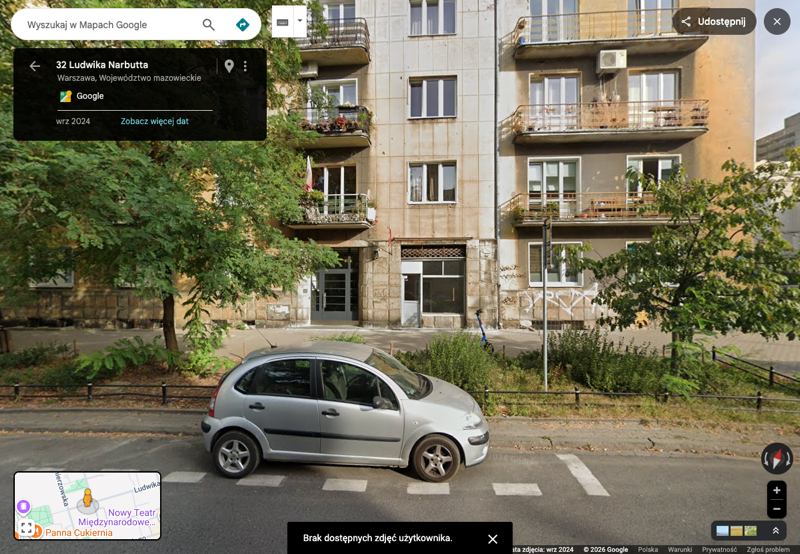
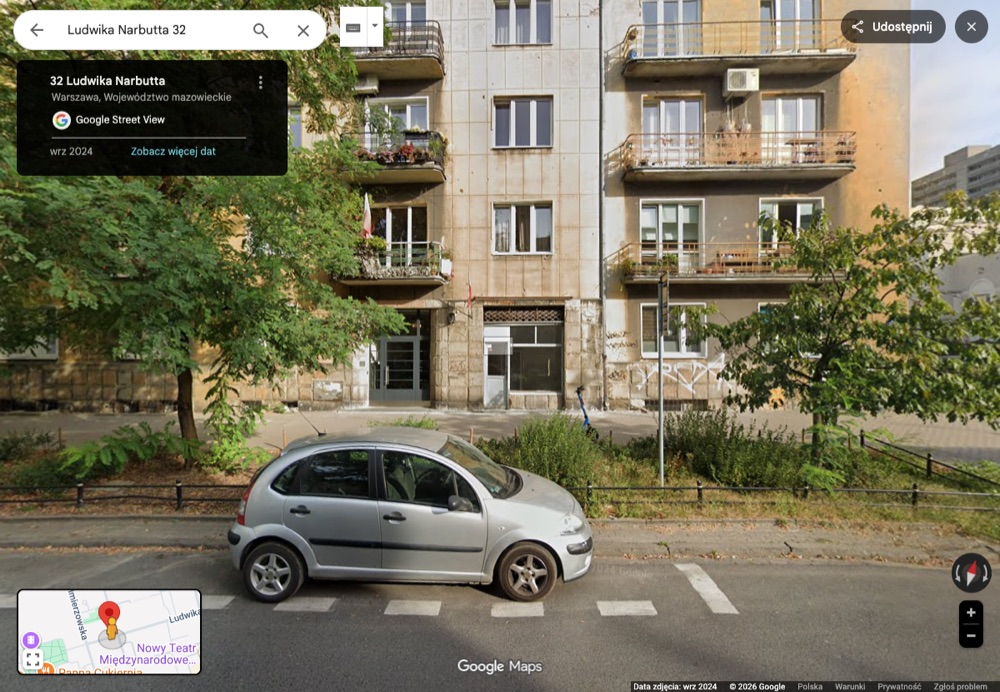
Update pickup page: real Street View photos, remove AI group pics, add plate
- Replace satellite/old images with actual Google Street View screenshots
- Show Dodo Pizza storefront (orange sign) for Rondo ONZ pickup
- Show Narbutta residential street with parking
- Show Słomińskiego 19 building entrance
- Remove AI-generated group photos
- Add car plate WX8689C
- Switch to English-only text

diff --git a/pickup.html b/pickup.html
@@ -15,6 +15,7 @@ body { font-family: -apple-system, BlinkMacSystemFont, 'Segoe UI', Roboto, sans-
 .car-section { background: #1a2a3a; border-radius: 12px; padding: 24px; margin: 24px 0; text-align: center; }
 .car-section img { max-width: 100%; border-radius: 8px; margin: 12px 0; }
 .car-section h2 { color: #c0392b; margin-bottom: 8px; }
+.car-section .plate { display: inline-block; background: #fff; color: #000; font-weight: 900; font-size: 1.3em; padding: 6px 18px; border-radius: 6px; border: 3px solid #1a3a6a; letter-spacing: 2px; margin-top: 8px; font-family: monospace; }
 .pickup-card { background: #1a2a3a; border-radius: 12px; margin: 24px 0; overflow: hidden; border-left: 4px solid #c0392b; }
 .pickup-header { padding: 20px 24px; display: flex; align-items: center; gap: 16px; }
 .pickup-number { background: #c0392b; color: white; width: 48px; height: 48px; border-radius: 50%; display: flex; align-items: center; justify-content: center; font-size: 1.4em; font-weight: bold; flex-shrink: 0; }
@@ -38,9 +39,6 @@ body { font-family: -apple-system, BlinkMacSystemFont, 'Segoe UI', Roboto, sans-
 .route-step .step-time { color: #c0392b; font-weight: 700; min-width: 50px; }
 .route-step .step-icon { font-size: 1.2em; }
 .route-step .step-text { color: #ccc; }
-.group-section { text-align: center; margin: 32px 0; }
-.group-section img { max-width: 100%; border-radius: 12px; margin: 12px 0; }
-.group-section h2 { color: #fff; margin-bottom: 8px; }
 .footer { text-align: center; padding: 24px; color: #556; font-size: 0.85em; }
 @media (max-width: 600px) {
   .images-grid { grid-template-columns: 1fr; }
@@ -54,19 +52,20 @@ body { font-family: -apple-system, BlinkMacSystemFont, 'Segoe UI', Roboto, sans-
 <div class="hero">
   <h1>XXIII Poronin - Zima 2026</h1>
   <div class="subtitle">Pickup Plan</div>
-  <div class="date">Piątek, 20 lutego 2026 / Friday, Feb 20, 2026</div>
+  <div class="date">Friday, Feb 20, 2026</div>
 </div>
 
 <div class="container">
 
 <div class="car-section">
-  <h2>Nasz wóz / Our ride</h2>
-  <p>Red MINI Countryman S - dwa czarne paski na masce / two black stripes on the hood</p>
+  <h2>Our ride</h2>
+  <p>Red MINI Countryman S - two black stripes on the hood</p>
   <img src="img/mini.jpg" alt="Red Mini Countryman S">
+  <div class="plate">WX8689C</div>
 </div>
 
 <div class="route-summary">
-  <h2>Trasa / Route</h2>
+  <h2>Route</h2>
   <div class="route-step">
     <span class="step-time">12:25</span>
     <span class="step-icon">🏠</span>
@@ -75,27 +74,27 @@ body { font-family: -apple-system, BlinkMacSystemFont, 'Segoe UI', Roboto, sans-
   <div class="route-step">
     <span class="step-time">~15 min</span>
     <span class="step-icon">🚗</span>
-    <span class="step-text">Przez Puławską na północ / North via Puławska</span>
+    <span class="step-text">North via Puławska</span>
   </div>
   <div class="route-step">
     <span class="step-time">12:40</span>
     <span class="step-icon">🚇</span>
-    <span class="step-text"><strong>Magda</strong> - Metro Rondo ONZ, wyjście przy Dodo Pizza</span>
+    <span class="step-text"><strong>Magda</strong> - Metro Rondo ONZ, exit near Dodo Pizza</span>
   </div>
   <div class="route-step">
     <span class="step-time">~15 min</span>
     <span class="step-icon">🚗</span>
-    <span class="step-text">Al. Jana Pawła II na północ / North via Jana Pawła II</span>
+    <span class="step-text">North via al. Jana Pawła II</span>
   </div>
   <div class="route-step">
     <span class="step-time">12:55</span>
     <span class="step-icon">🏥</span>
-    <span class="step-text"><strong>Marta</strong> - Słomińskiego 19, klinika / clinic</span>
+    <span class="step-text"><strong>Marta</strong> - Słomińskiego 19, clinic</span>
   </div>
   <div class="route-step">
     <span class="step-time">~13:00</span>
     <span class="step-icon">🛣</span>
-    <span class="step-text">Na S7/S8 w kierunku Krakowa / Onto S7/S8 towards Kraków</span>
+    <span class="step-text">Onto S7/S8 towards Kraków</span>
   </div>
 </div>
 
@@ -110,20 +109,19 @@ body { font-family: -apple-system, BlinkMacSystemFont, 'Segoe UI', Roboto, sans-
     </div>
   </div>
   <div class="pickup-body">
-    <p>Mati wychodzi z domu. Narbutta to spokojna ulica jednokierunkowa z miejscami parkingowymi po obu stronach. Podjadę pod sam budynek - jest dużo miejsca, żeby się zatrzymać przy krawężniku.</p>
     <p>Mati exits from home. Narbutta is a calm one-way residential street with parking on both sides. I'll pull up right in front of the building - plenty of space to stop at the curb.</p>
-    <div class="tip"><strong>Tip:</strong> Narbutta jest jednokierunkowa - jadę od strony Puławskiej. / Narbutta is one-way - I'll approach from Puławska side.</div>
+    <div class="tip"><strong>Tip:</strong> Narbutta is one-way - I'll approach from the Puławska side (driving east).</div>
     <div class="images-grid">
       <div>
-        <img src="img/narbutta-sat.jpg" alt="Narbutta 32 - satellite view">
-        <div class="caption">Widok satelitarny / Satellite view</div>
+        <img src="img/narbutta-sv.jpg" alt="Narbutta 32 - building with parking">
+        <div class="caption">Building at Narbutta - parked car shows where I'll stop</div>
       </div>
       <div>
-        <img src="img/narbutta-sv.jpg" alt="Narbutta 32 - street view">
-        <div class="caption">Street View - spokojna ulica z parkowaniem / calm street with parking</div>
+        <img src="img/narbutta-street.jpg" alt="Narbutta street perspective">
+        <div class="caption">Street view approaching from Puławska side</div>
       </div>
     </div>
-    <a class="map-link" href="https://maps.google.com/?q=Ludwika+Narbutta+32,+Warszawa&ll=52.2063,21.0149" target="_blank">📍 Otwórz w Google Maps</a>
+    <a class="map-link" href="https://maps.google.com/?q=Ludwika+Narbutta+32,+Warszawa&ll=52.2063,21.0149" target="_blank">📍 Open in Google Maps</a>
   </div>
 </div>
 
@@ -134,24 +132,23 @@ body { font-family: -apple-system, BlinkMacSystemFont, 'Segoe UI', Roboto, sans-
     <div class="pickup-info">
       <h2>Magda - Metro Rondo ONZ</h2>
       <div class="time">12:40</div>
-      <div class="address">al. Jana Pawła II 18 (przy Dodo Pizza), 00-824 Warszawa</div>
+      <div class="address">al. Jana Pawła II 18 (near Dodo Pizza), 00-824 Warszawa</div>
     </div>
   </div>
   <div class="pickup-body">
-    <p>Magda wychodzi z metra Rondo ONZ. Wyjście blisko Dodo Pizza (al. Jana Pawła II 18). Zatrzymam się na al. Jana Pawła II po zachodniej stronie, tuż przed skrzyżowaniem z Twardą - jest tam krótki odcinek, gdzie można się zatrzymać.</p>
-    <p>Magda exits metro Rondo ONZ. Exit near Dodo Pizza (al. Jana Pawła II 18). I'll stop on al. Jana Pawła II on the west side, just before the Twarda intersection - there's a short stretch where you can pull over.</p>
-    <div class="tip"><strong>Tip:</strong> Centrum miasta - lepiej nie stać za długo! Magda, bądź gotowa. 😄 / City center - best not to linger! Magda, be ready. 😄</div>
+    <p>Magda exits metro Rondo ONZ. The exit is near <strong>Dodo Pizza</strong> (orange sign, al. Jana Pawła II 18) - look for Carrefour and Shanga next to it. I'll stop on al. Jana Pawła II on the right side, just north of the Twarda intersection (~20m).</p>
+    <div class="tip"><strong>Tip:</strong> City center - can't linger! Magda, be ready at the exit when you see me pull up.</div>
     <div class="images-grid">
       <div>
-        <img src="img/rondo-onz-sat.jpg" alt="Rondo ONZ - satellite view">
-        <div class="caption">Widok satelitarny - Dodo Pizza po lewej / Satellite - Dodo Pizza on the left</div>
+        <img src="img/rondo-onz-dodo.jpg" alt="Dodo Pizza storefront">
+        <div class="caption">Dodo Pizza (orange sign) - Magda exits here. Carrefour + Shanga next door.</div>
       </div>
       <div>
-        <img src="img/rondo-onz-sv.jpg" alt="Rondo ONZ - street view">
-        <div class="caption">Street View - al. Jana Pawła II</div>
+        <img src="img/rondo-onz-avenue.jpg" alt="al. Jana Pawła II looking south">
+        <div class="caption">al. Jana Pawła II looking south toward Rondo ONZ</div>
       </div>
     </div>
-    <a class="map-link" href="https://maps.google.com/?q=Dodo+Pizza+Jana+Pawla+II+Warszawa&ll=52.2338,20.9986" target="_blank">📍 Otwórz w Google Maps</a>
+    <a class="map-link" href="https://maps.google.com/?q=Dodo+Pizza+Jana+Pawla+II+Warszawa&ll=52.2338,20.9986" target="_blank">📍 Open in Google Maps</a>
   </div>
 </div>
 
@@ -162,43 +159,31 @@ body { font-family: -apple-system, BlinkMacSystemFont, 'Segoe UI', Roboto, sans-
     <div class="pickup-info">
       <h2>Marta - Słomińskiego 19</h2>
       <div class="time">12:55</div>
-      <div class="address">ul. Zygmunta Słomińskiego 19, 00-195 Warszawa (klinika psychologiczna / psychology clinic)</div>
+      <div class="address">ul. Zygmunta Słomińskiego 19, 00-195 Warszawa (clinic building)</div>
     </div>
   </div>
   <div class="pickup-body">
-    <p>Marta wychodzi z kliniki. Budynek przy Słomińskiego 19 to duży biurowiec z wieloma gabinetami lekarskimi. Jest parking przed budynkiem, a od strony ul. Dzikiej jest spokojniej - można tam podjechać i stanąć.</p>
-    <p>Marta exits from the clinic. Słomińskiego 19 is a large office building with many medical practices. There's parking in front, and ul. Dzika side is calmer - you can pull up and stop there.</p>
-    <div class="tip"><strong>Tip:</strong> Blisko Ronda Radosława i wjazdu na trasę. Stąd szybko na S7! / Near Rondo Radosława and highway entrance. Quick access to S7 from here!</div>
+    <p>Marta exits from the clinic. Słomińskiego 19 is a large office building with many medical practices (Babka Medica, Centrum Terapii Dialog, ASTRAMED). I'll pull up on the side street (ul. Dzika) where it's calmer.</p>
+    <div class="tip"><strong>Tip:</strong> Near Rondo Radosława and highway entrance. Quick access to S7 from here!</div>
     <div class="images-grid">
       <div>
-        <img src="img/slominskiego-sat.jpg" alt="Słomińskiego 19 - satellite view">
-        <div class="caption">Widok satelitarny / Satellite view</div>
+        <img src="img/slominskiego-building.jpg" alt="Słomińskiego 19 building">
+        <div class="caption">Building entrance at Słomińskiego 19</div>
       </div>
       <div>
-        <img src="img/slominskiego-sv.jpg" alt="Słomińskiego 19 - street view">
-        <div class="caption">Street View - ul. Dzika, parking obok budynku / parking beside building</div>
+        <img src="img/slominskiego-road.jpg" alt="Road near Słomińskiego 19">
+        <div class="caption">Road view - Domino's Pizza visible as landmark</div>
       </div>
     </div>
-    <a class="map-link" href="https://maps.google.com/?q=Słomińskiego+19,+Warszawa&ll=52.2543,20.9856" target="_blank">📍 Otwórz w Google Maps</a>
+    <a class="map-link" href="https://maps.google.com/?q=Słomińskiego+19,+Warszawa&ll=52.2543,20.9856" target="_blank">📍 Open in Google Maps</a>
   </div>
-</div>
-
-<div class="group-section">
-  <h2>Na Poronin! 🎿</h2>
-  <img src="img/group-car.jpg" alt="Four of us in the car">
-  <p style="color: #888; margin-top: 8px;">Wizualizacja artystyczna / artistic visualization 😄</p>
-</div>
-
-<div class="group-section">
-  <img src="img/group-hotel.jpg" alt="Group at the hotel">
-  <p style="color: #888; margin-top: 8px;">ParkHotel Łysoń, Poronin - pokoje 130 i 139 / rooms 130 & 139</p>
 </div>
 
 </div>
 
 <div class="footer">
   <p>XXIII Poronin - Zima 2026 | ParkHotel Łysoń, Poronin</p>
-  <p>Piątek 20.02 - Niedziela 22.02 | <a href="index.html" style="color: #c0392b;">Trip brief (EN)</a> | <a href="pl.html" style="color: #c0392b;">Trip brief (PL)</a></p>
+  <p>Fri 20.02 - Sun 22.02 | <a href="index.html" style="color: #c0392b;">Trip brief (EN)</a> | <a href="pl.html" style="color: #c0392b;">Trip brief (PL)</a></p>
 </div>
 
 </body>
